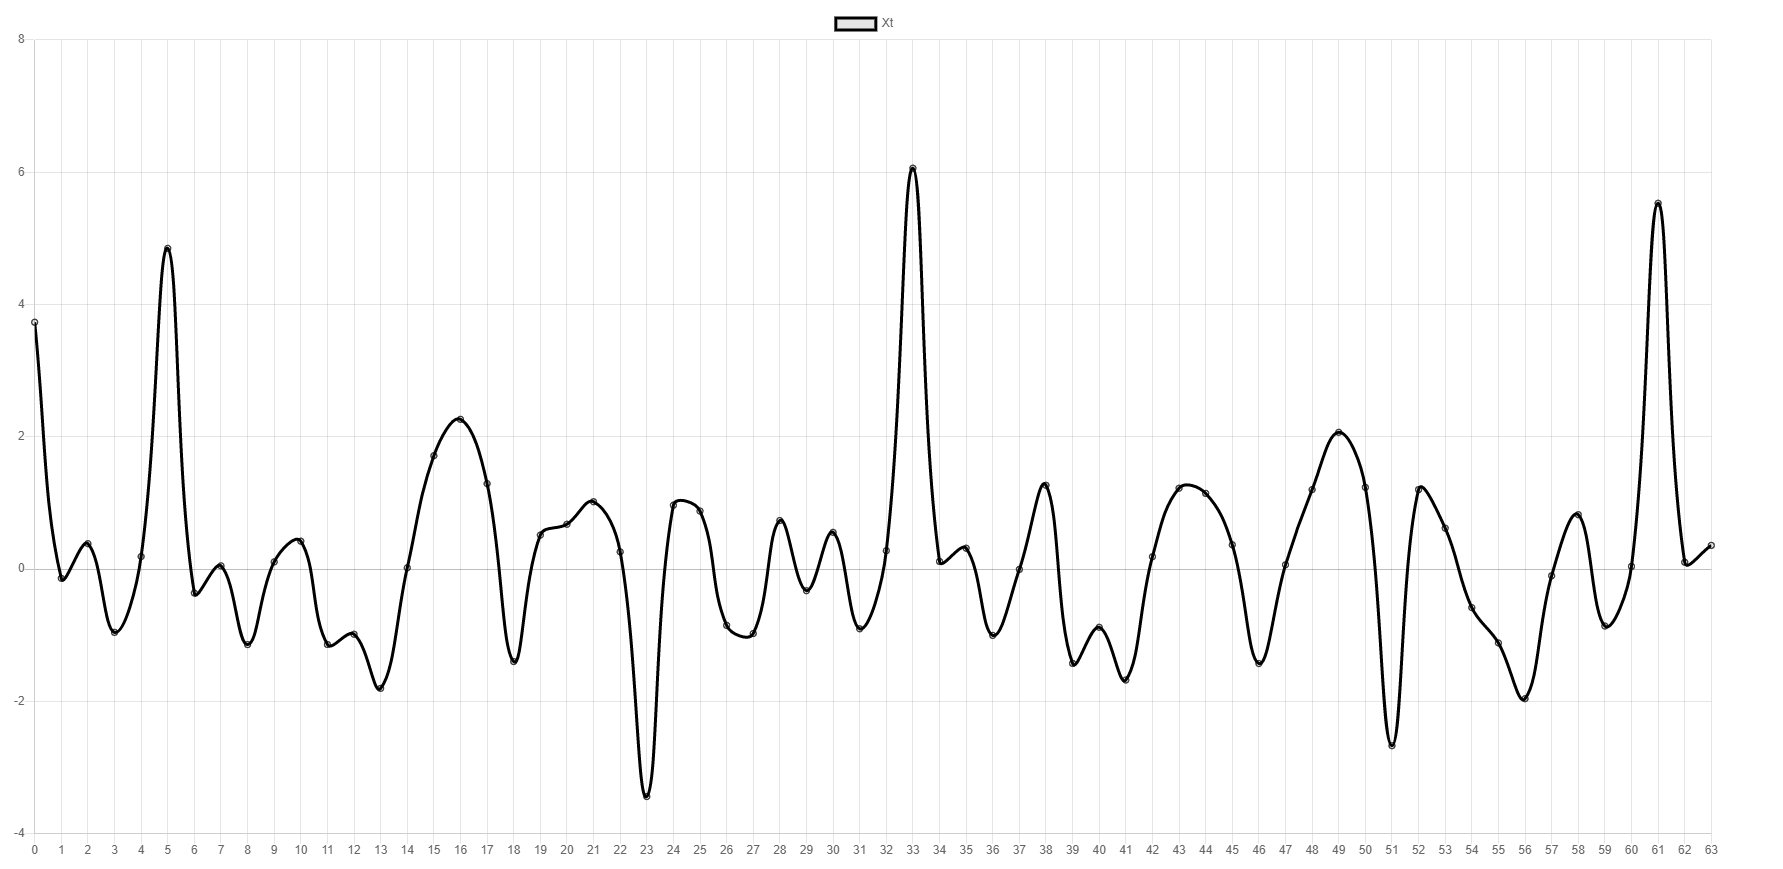
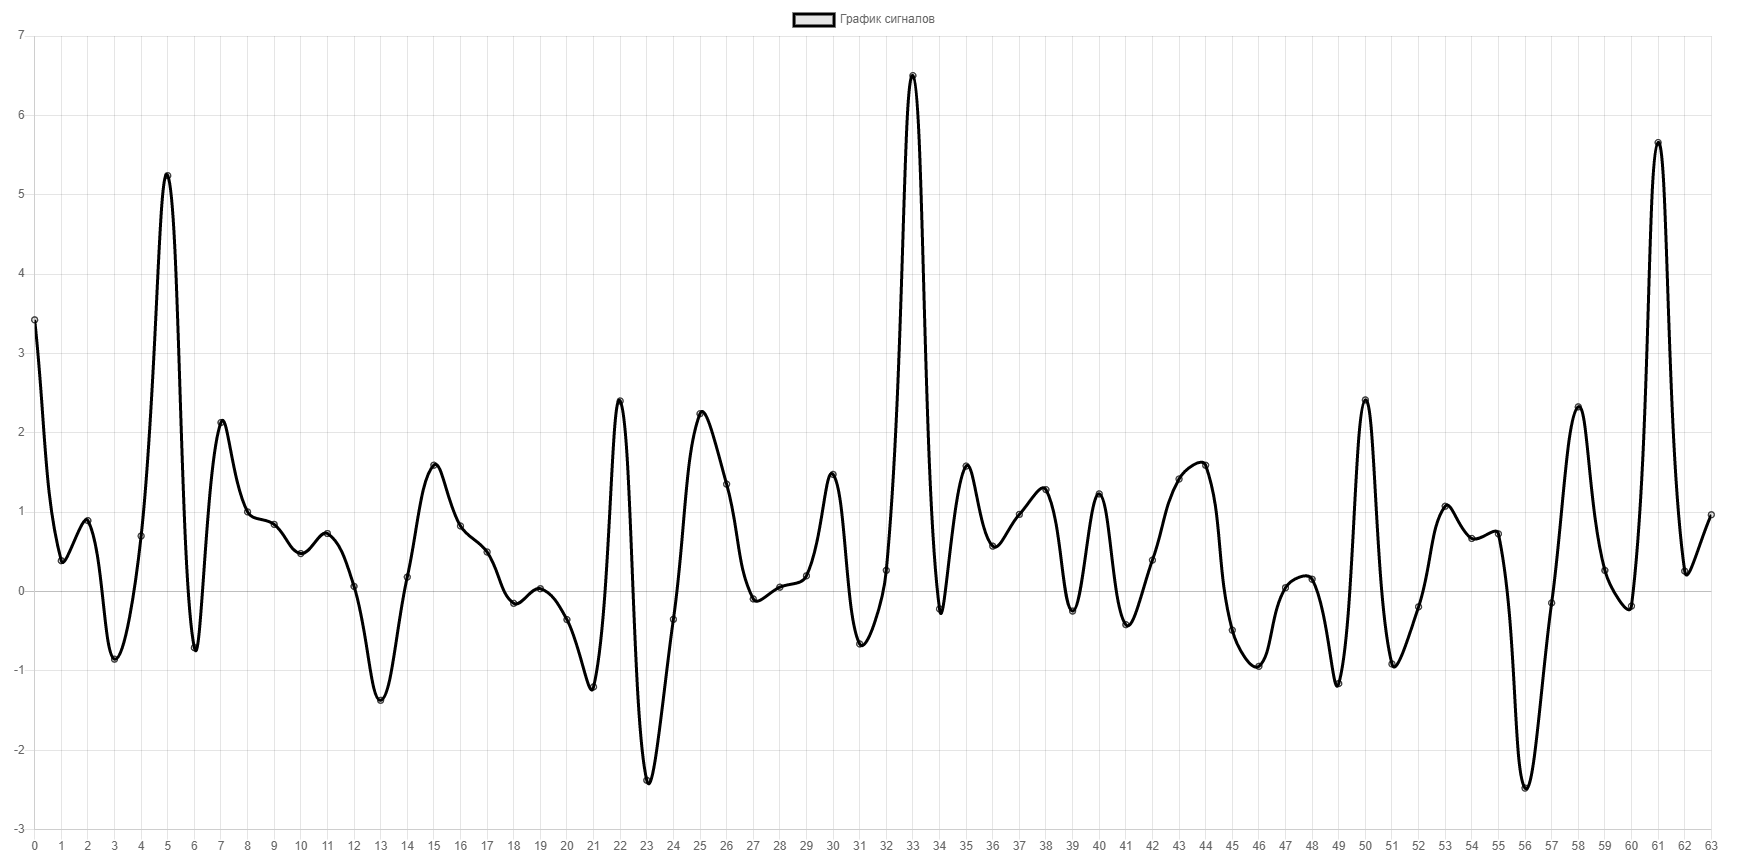
did an additional task

diff --git a/lab2.2.js b/lab2.2.js
@@ -2,7 +2,7 @@ let n = 14,
   w = 2500,
   N = 64,
   A,
-  Fi,
+  Fii,
   graphic = [];
 number = w / (n - 1);
 
@@ -26,11 +26,50 @@ let x = new Array(N).fill(0);
 
 for (let i = 0; i < n; i++) {
   A = Math.random();
-  Fi = Math.random();
+  Fii = Math.random();
   for (let j = 0; j < N; j++) {
-    x[j] += A * Math.sin(w_values[i] * j + Fi);
+    x[j] += A * Math.sin(w_values[i] * j + Fii);
   }
 }
+
+// lab 2.1
+
+let F1 = [];
+let FR = [];
+let Fi = [];
+
+function makeFR(arr) {
+  for (let i = 0; i < N; i++) {
+    arr.push(0);
+    for (let j = 0; j < N; j++) {
+      arr[i] += x[j] * Math.cos((-2 * Math.PI * i * j) / N);
+    }
+  }
+  return arr;
+}
+
+function makeFi(arr) {
+  for (let i = 0; i < N; i++) {
+    arr.push(0);
+    for (let j = 0; j < N; j++) {
+      arr[i] += x[j] * Math.sin((-2 * Math.PI * i * j) / N);
+    }
+  }
+  return arr;
+}
+
+function makeF(arr) {
+  for (let i = 0; i < N; i++) {
+    arr[i] = FR[i] + Fi[i];
+  }
+  return arr;
+}
+
+makeFR(FR);
+makeFi(Fi);
+makeF(F1);
+
+// lab 2.2
 
 // таблица коеф w[p][k] от N / 2
 let w_coeff = [];
@@ -88,7 +127,14 @@ for (let i = 0; i < N; i++) {
   }
 }
 
-console.log(F);
+// Доп задание "додайте у проект лабу 2.1 та порахуйте відхилення лаб 2.2 від 2.1"
+let arr = [];
+
+for (let i = 0; i < F.length; i++) {
+  arr.push(F[i].toFixed(5) - F1[i].toFixed(5));
+}
+
+console.group(arr);
 
 let config = {
   type: "line",
@@ -97,7 +143,7 @@ let config = {
     labels: graphic,
     datasets: [
       {
-        label: "Xt",
+        label: "График сигналов",
         borderColor: "black",
         data: x,
         fill: false
@@ -113,9 +159,41 @@ let config1 = {
     labels: graphic,
     datasets: [
       {
-        label: "F",
+        label: "Лаб 2.2",
         borderColor: "black",
         data: F,
+        fill: false
+      }
+    ]
+  }
+};
+
+let config2 = {
+  type: "line",
+
+  data: {
+    labels: graphic,
+    datasets: [
+      {
+        label: "Лаб 2.1",
+        borderColor: "black",
+        data: F1,
+        fill: false
+      }
+    ]
+  }
+};
+
+let config3 = {
+  type: "line",
+
+  data: {
+    labels: graphic,
+    datasets: [
+      {
+        label: "Графік відхилення лаб2.2 від лаб2.1",
+        borderColor: "black",
+        data: arr,
         fill: false
       }
     ]
@@ -128,4 +206,10 @@ window.onload = function() {
 
   var ctx1 = document.getElementById("lab2.2").getContext("2d");
   window.chart = new Chart(ctx1, config1);
+
+  var ctx2 = document.getElementById("lab2.1").getContext("2d");
+  window.chart = new Chart(ctx2, config2);
+
+  var ctx3 = document.getElementById("arr").getContext("2d");
+  window.chart = new Chart(ctx3, config3);
 };

diff --git a/index.html b/index.html
@@ -26,7 +26,15 @@
     </div>
 
     <div style="width:90%; height: auto;">
+      <canvas id="lab2.1"></canvas>
+    </div>
+
+    <div style="width:90%; height: auto;">
       <canvas id="lab2.2"></canvas>
+    </div>
+
+    <div style="width:90%; height: auto;">
+      <canvas id="arr"></canvas>
     </div>
 
     <script src="https://cdn.jsdelivr.net/npm/chart.js@2.8.0"></script>

diff --git a/README.md b/README.md
@@ -2,4 +2,10 @@
 
 ![Image alt](https://github.com/dmitriykovalenk0/rts_lab2.2/raw/master/Xt.png)
 
-![Image alt](https://github.com/dmitriykovalenk0/rts_lab2.2/raw/master/F.png)
+![Image alt](https://github.com/dmitriykovalenk0/rts_lab2.2/raw/master/Lab2.1.png)
+
+![Image alt](https://github.com/dmitriykovalenk0/rts_lab2.2/raw/master/Lab2.2.png)
+
+![Image alt](https://github.com/dmitriykovalenk0/rts_lab2.2/raw/master/dop.png)
+
+Значення відхилення лаб 2.2 від 2.1 ![Image alt](https://github.com/dmitriykovalenk0/rts_lab2.2/raw/master/dop1.png)
